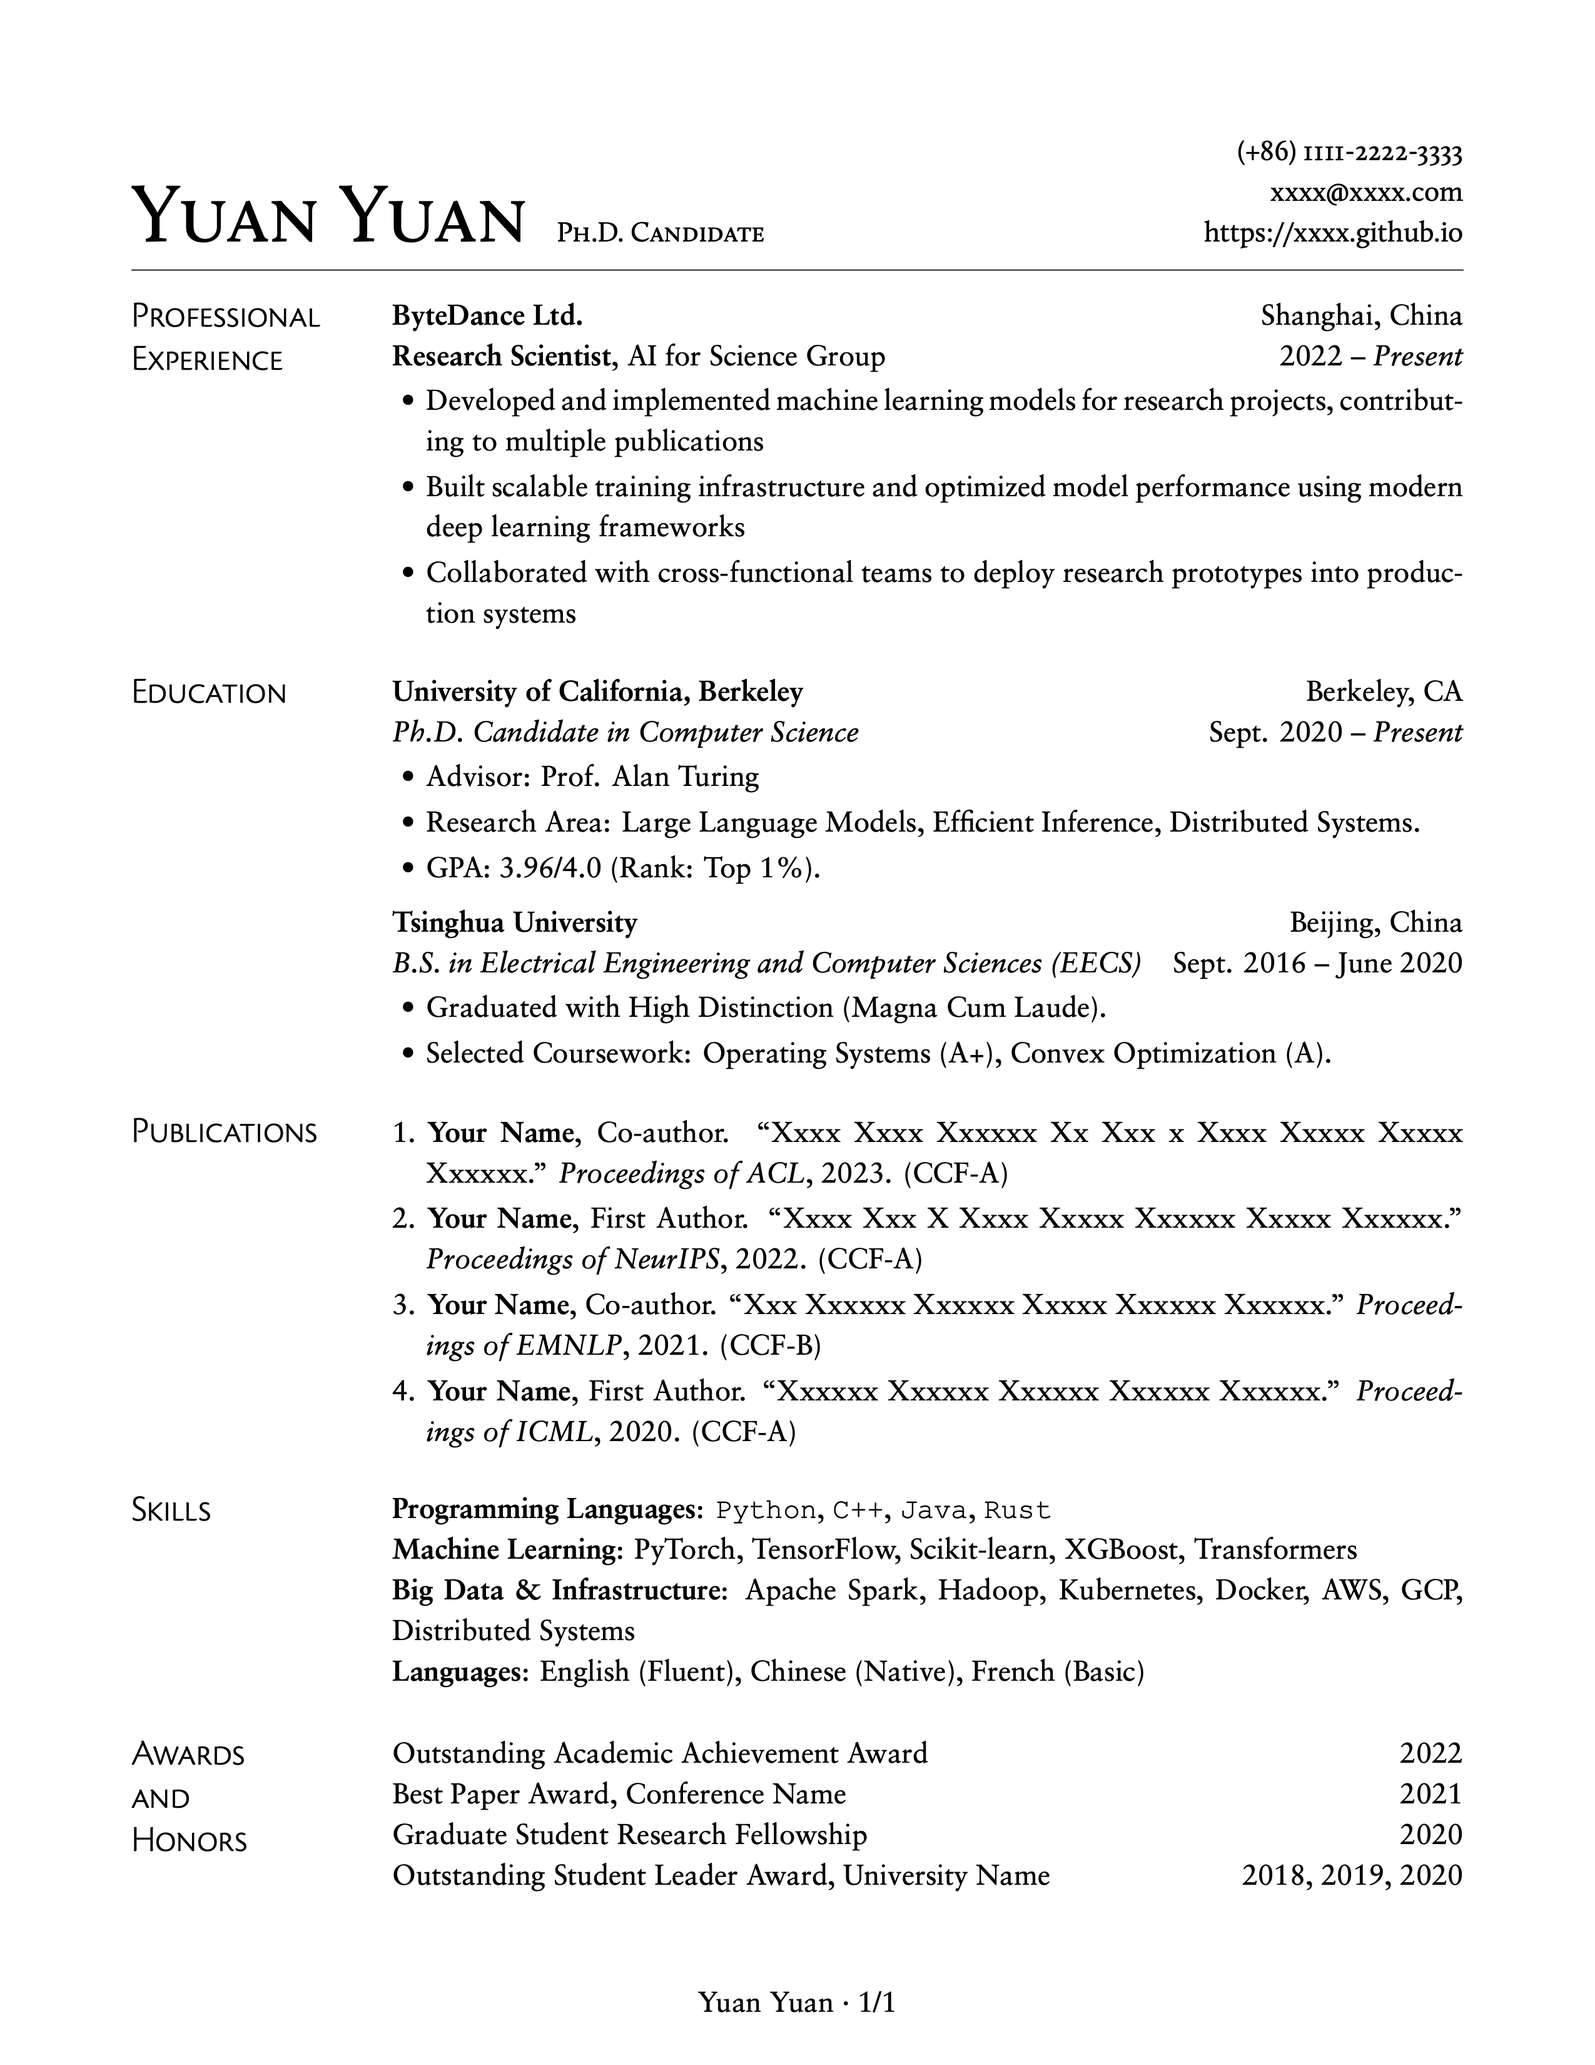
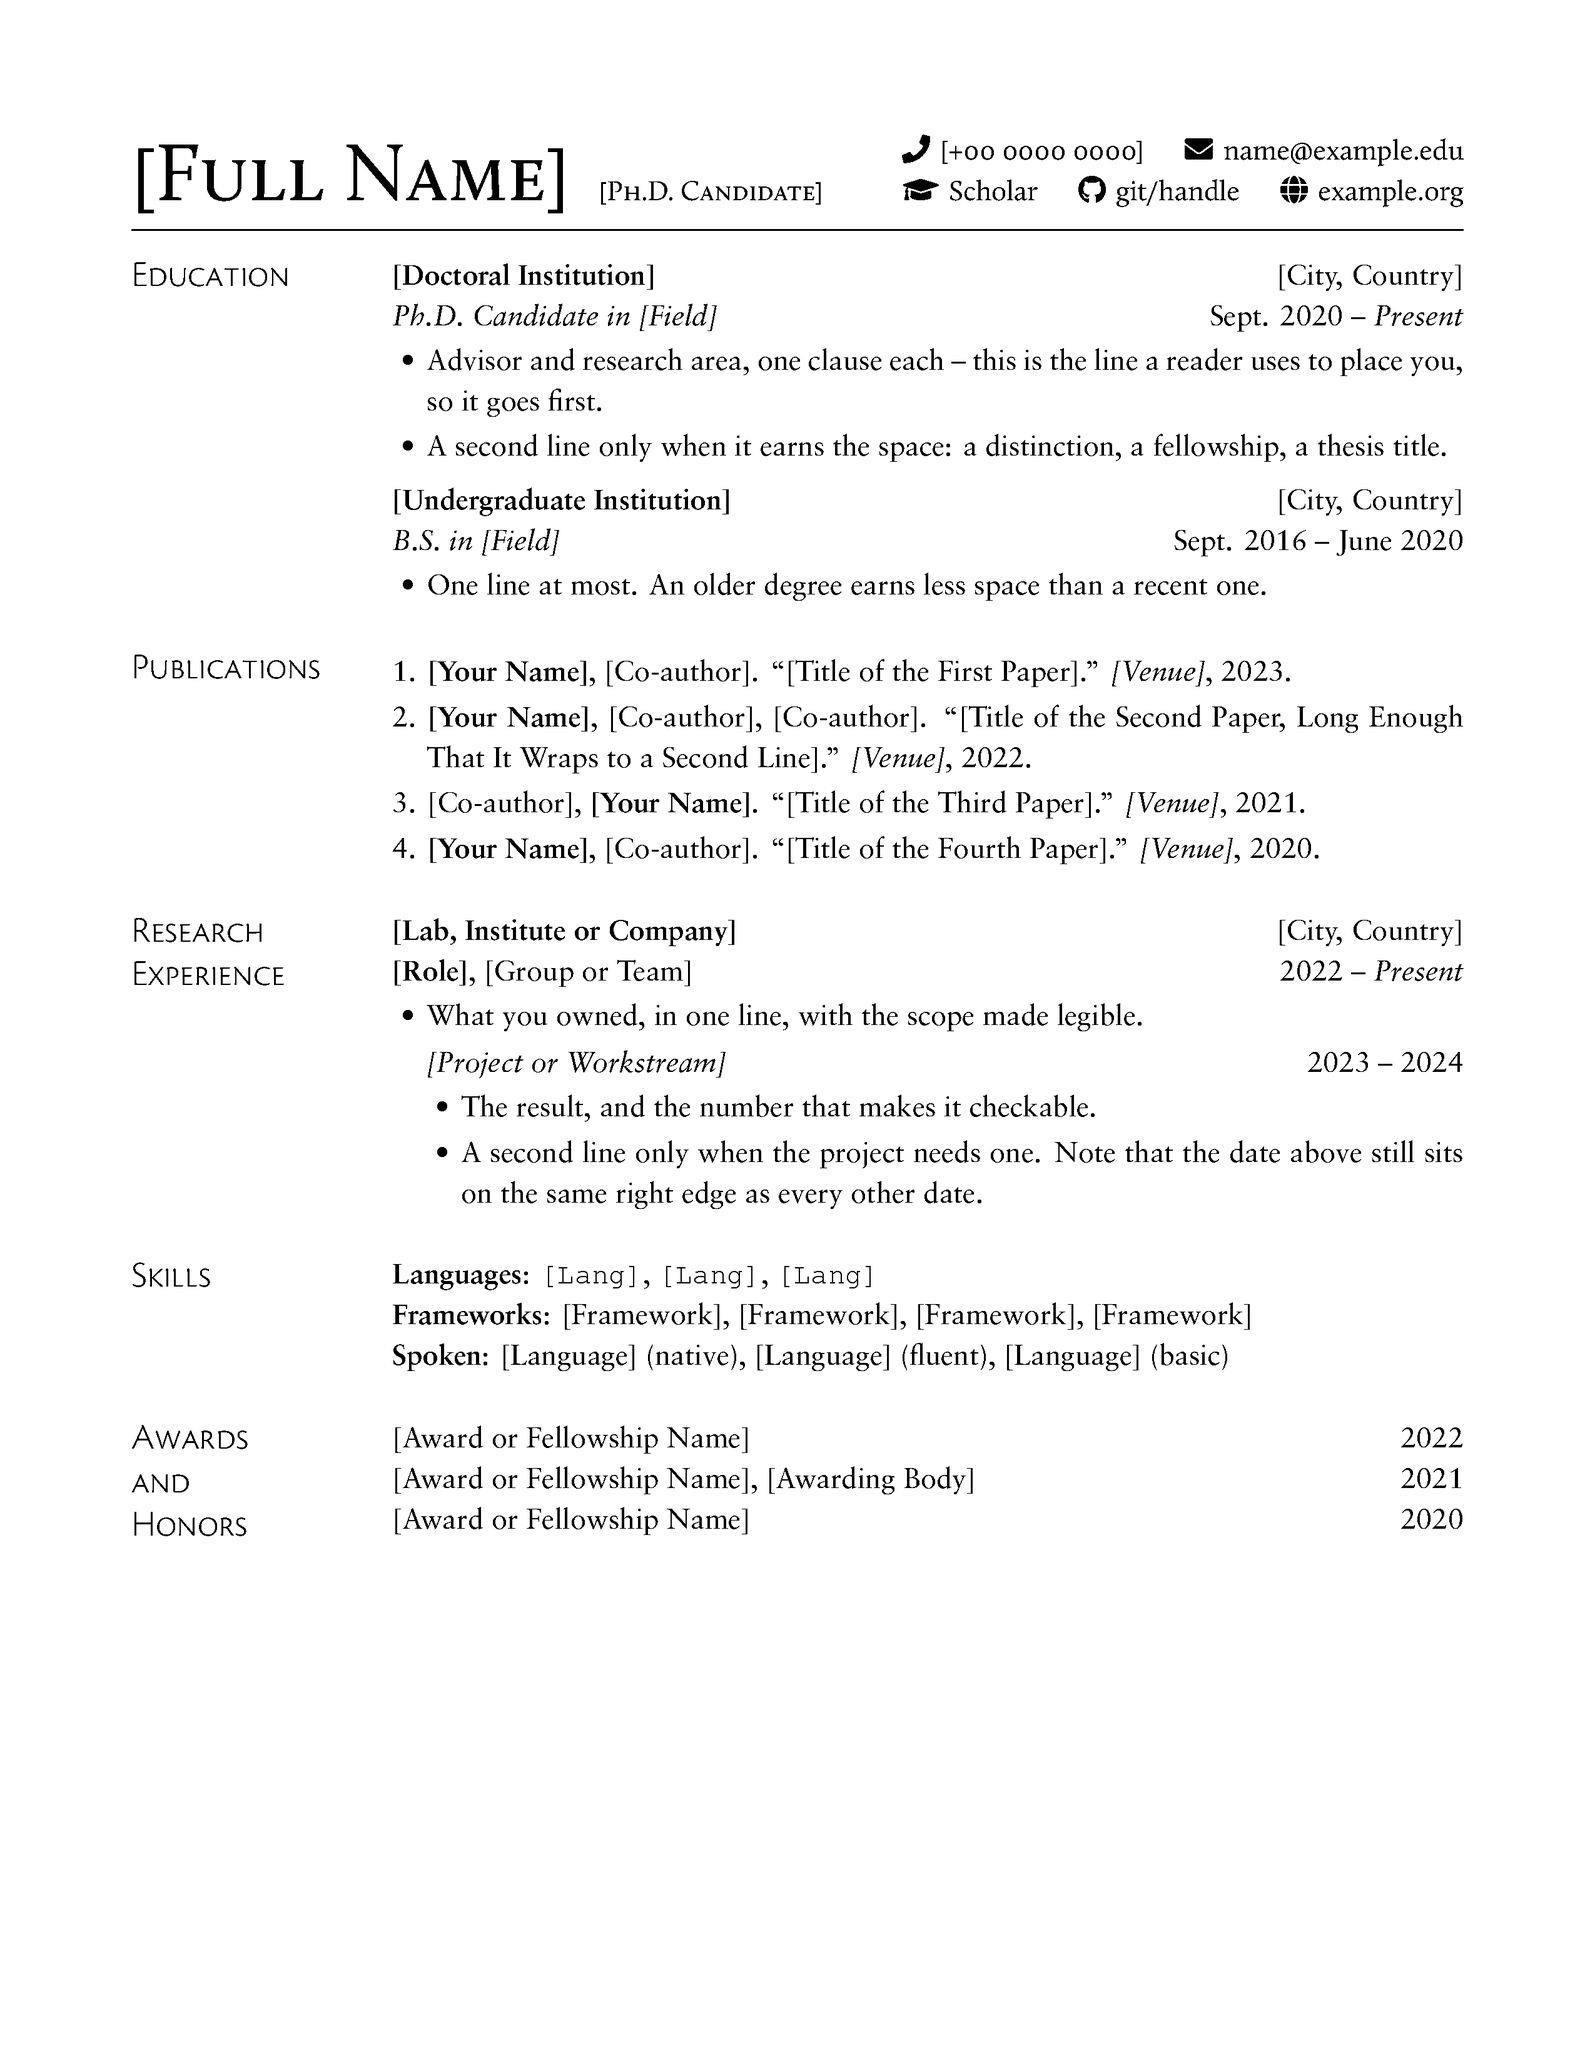
feat: reduce main.tex to a skeleton and add two example compositions
main.tex shipped as a filled-in resume for a named person at a named
employer with a GPA and a class rank -- entirely fabricated, and the
default starting point for anyone who cloned the repository. Every field
is now a bracketed placeholder, so the file asserts nothing about anyone
and `make check` fails until the placeholders are replaced. That failure
is the intended signal: it names the lines still to edit.

The skeleton also demonstrates the primitives it expects to be used --
cventry nesting a project under a role, \cvgap separating siblings, the
contact rows as an ordered stack -- rather than describing them in a
comment banner.

examples/academic.tex and examples/industry.tex exist to make the point
that there is no canonical section list: one has Publications, Research
Experience and Awards, the other Open Source, Speaking and Stack, and
they share only Education. Both are placeholder skeletons for the same
reason main.tex is.

assets/font-commercial.png is now a render of examples/academic.tex via
`make preview`, replacing a hand-made image of the fabricated CV.
assets/font-default.png goes with the open-source font set it showed.

diff --git a/main.tex b/main.tex
@@ -1,81 +1,77 @@
-% ====================================================================
-% IMPORTANT: This template REQUIRES XeLaTeX compiler!
-% ====================================================================
-% 
-% In Overleaf: Menu -> Settings -> Compiler -> XeLaTeX
-% In local TeX: Use 'xelatex main.tex' instead of 'pdflatex main.tex'
+% ===========================================================================
+% Your resume. Replace every placeholder below, then delete this banner.
 %
-% ====================================================================
-% Class Options
-% ====================================================================
-% - fontset: 'default' (open source) or 'commercial' (requires manual font files)
-%   Example: fontset=default or fontset=commercial
+%   Requires XeLaTeX.  Overleaf: Menu -> Settings -> Compiler -> XeLaTeX
+%   Build:  latexmk -xelatex -outdir=build main.tex
+%   Check:  make check          (fails while placeholders remain)
 %
-% - pagefooter: boolean (default: true)
-%   When enabled, shows a centered footer: "Name · current/total" (e.g., "Yuan Yuan · 2/3").
-%   Set pagefooter=false to hide header/footer entirely.
-\documentclass[fontset=default,pagefooter=false]{yuan2resume}
+%   The vocabulary is seven primitives -- read docs/GRAMMAR.md before writing.
+%   examples/academic.tex and examples/industry.tex are two full compositions;
+%   neither is "the" shape of a resume. Invent the sections you actually need.
+%
+%   Class options:
+%     fontset    = commercial (included config) | your own set -- docs/FONTS.md
+%     pagefooter = false | true  ("Name . 2/3" centred at the foot)
+% ===========================================================================
+\documentclass[fontset=commercial,pagefooter=false]{yuan2resume}
 
-\name{Yuan Yuan}
-\position{Ph.D. Candidate}
-\phone{(+86) 1111-2222-3333}
-\email{xxxx@xxxx.com}
-\homepage{https://xxxx.github.io}
+\cvname{Your Name}
+\cvposition{Your Job Title}
+
+% The contact block. Items print in declaration order, so to reorder them you
+% reorder these lines; to move an item to the other row, move its line into
+% the other \cvcontactrow. Every item must be inside an explicit row.
+% Icons are semantic slots (\cvIconPhone, \cvIconScholar, ...), so you never
+% name a glyph here -- and icons=false in the class options drops them all.
+\cvcontactrow{
+  \cvcontact[\cvIconPhone]{+1 (234) 567-8900}
+  \cvemail{your.email@example.com}
+}
+\cvcontactrow{
+  \cvlink[\cvIconScholar]{https://scholar.google.com/citations?user=XXXX}{Scholar}
+  \cvlink[\cvIconGitHub]{https://github.com/you}{github.com/you}
+  \cvlink[\cvIconSite]{https://example.com}{example.com}
+}
+% Other slots: \cvIconLinkedIn, \cvIconLocation, or pass any fontawesome5
+% command directly -- \cvlink[\faTwitter]{...}{...}
 
 \begin{document}
 \maketitle
 
 \begin{cvtwocolumn}
 
-\begin{cvsection}{Professional Experience}
-  \cvpair{\textbf{ByteDance Ltd. }}{Shanghai, China}
-  \cvpair{\textbf{Research Scientist}, AI for Science Group}{2022 -- \textit{Present}}
+\begin{cvsection}{Experience}
+  \cvpair{\textbf{Employer Name}}{City, Country}
+  \cvpair{\textbf{Your Job Title}, Team}{2022 -- \textit{Present}}
   \begin{cvitemize}
-    \item Developed and implemented machine learning models for research projects, contributing to multiple publications
-    \item Built scalable training infrastructure and optimized model performance using modern deep learning frameworks
-    \item Collaborated with cross-functional teams to deploy research prototypes into production systems
+    \item What you owned, and the number that shows it mattered.
+  \end{cvitemize}
+  % cventry nests a project under the role. It indents from the left only, so
+  % the date below still lands on the same right edge as "City, Country".
+  \begin{cventry}
+    \cvpair{\textit{Project Name}}{2023 -- 2024}
+    \begin{cvitemize}
+      \item What changed, measured.
+    \end{cvitemize}
+  \end{cventry}
+
+  \cvgap  % <- separates sibling entries. Never write \vspace here.
+
+  \cvpair{\textbf{Earlier Employer}}{City, Country}
+  \cvpair{\textbf{Earlier Title}}{2019 -- 2022}
+  \begin{cvitemize}
+    \item One line per thing worth an interview question.
   \end{cvitemize}
 \end{cvsection}
 
 \begin{cvsection}{Education}
-  \cvpair{\textbf{University of California, Berkeley}}{Berkeley, CA}
-  \cvpair{\textit{Ph.D. Candidate in Computer Science}}{Sept. 2020 -- \textit{Present}}
-  \begin{cvitemize}
-    \item Advisor: Prof. Alan Turing
-    \item Research Area: Large Language Models, Efficient Inference, Distributed Systems.
-    \item GPA: 3.96/4.0 (Rank: Top 1\%).
-  \end{cvitemize}
-  \vspace{\cventrysep}
-  \cvpair{\textbf{Tsinghua University}}{Beijing, China}
-  \cvpair{\textit{B.S. in Electrical Engineering and Computer Sciences (EECS)}}{Sept. 2016 -- June 2020}
-  \begin{cvitemize}
-    \item Graduated with High Distinction (Magna Cum Laude).
-    \item Selected Coursework: Operating Systems (A+), Convex Optimization (A).
-  \end{cvitemize}
-\end{cvsection}
-
-\begin{cvsection}{Publications}
-  \vspace{-0.5\cvitemsep}
-  \begin{cvnumlist}
-    \item \textbf{Your Name}, Co-author. ``Xxxx Xxxx Xxxxxx Xx Xxx x Xxxx Xxxxx Xxxxx Xxxxxx.'' \textit{Proceedings of ACL}, 2023. (CCF-A)
-    \item \textbf{Your Name}, First Author. ``Xxxx Xxx X Xxxx Xxxxx Xxxxxx Xxxxx Xxxxxx.'' \textit{Proceedings of NeurIPS}, 2022. (CCF-A)
-    \item \textbf{Your Name}, Co-author. ``Xxx Xxxxxx Xxxxxx Xxxxx Xxxxxx Xxxxxx.'' \textit{Proceedings of EMNLP}, 2021. (CCF-B)
-    \item \textbf{Your Name}, First Author. ``Xxxxxx Xxxxxx Xxxxxx Xxxxxx Xxxxxx.'' \textit{Proceedings of ICML}, 2020. (CCF-A)
-  \end{cvnumlist}
+  \cvpair{\textbf{University Name}}{City, Country}
+  \cvpair{\textit{Your Degree}}{2015 -- 2019}
 \end{cvsection}
 
 \begin{cvsection}{Skills}
-  \textbf{Programming Languages}: {\CodeFont{Python}}, {\CodeFont{C++}}, {\CodeFont{Java}}, {\CodeFont{Rust}} \\
-  \textbf{Machine Learning}: PyTorch, TensorFlow, Scikit-learn, XGBoost, Transformers \\
-  \textbf{Big Data \& Infrastructure}: Apache Spark, Hadoop, Kubernetes, Docker, AWS, GCP, Distributed Systems \\
-  \textbf{Languages}: English (Fluent), Chinese (Native), French (Basic)
-\end{cvsection}
-
-\begin{cvsection}{Awards\\and\\Honors}
-  \cvpair{Outstanding Academic Achievement Award}{2022}
-  \cvpair{Best Paper Award, Conference Name}{2021}
-  \cvpair{Graduate Student Research Fellowship}{2020}
-  \cvpair{Outstanding Student Leader Award, University Name}{2018, 2019, 2020}
+  \textbf{Languages}: {\CodeFont{Python}}, {\CodeFont{Go}} \\
+  \textbf{Tools}: name only what you would defend in an interview
 \end{cvsection}
 
 \end{cvtwocolumn}

diff --git a/examples/academic.tex b/examples/academic.tex
@@ -1,0 +1,94 @@
+% ---------------------------------------------------------------------------
+% Academic CV -- one composition of the grammar.
+%
+% Everything here is a SLOT, not a claim. Names, institutions, venues and
+% numbers are bracketed placeholders, and the bullets say what belongs in them,
+% so the file shows how the primitives compose without asserting anything about
+% a real person or organisation. Read it for shape; write content in main.tex.
+%
+% Compare examples/industry.tex: a different section list, the same seven
+% primitives, the same shared right-hand edge.
+%
+% Build from the REPOSITORY ROOT so the class and fonts/ resolve:
+%   latexmk -xelatex -outdir=build examples/academic.tex
+% ---------------------------------------------------------------------------
+\documentclass[fontset=commercial,pagefooter=false]{yuan2resume}
+
+\cvname{[Full Name]}
+\cvposition{[Ph.D. Candidate]}
+\cvcontactrow{
+  \cvcontact[\cvIconPhone]{[+00 0000 0000]}
+  \cvemail{name@example.edu}
+}
+\cvcontactrow{
+  \cvlink[\cvIconScholar]{https://example.edu/scholar}{Scholar}
+  \cvlink[\cvIconGitHub]{https://example.com/git}{git/handle}
+  \cvlink[\cvIconSite]{https://example.org}{example.org}
+}
+
+\begin{document}
+\maketitle
+
+\begin{cvtwocolumn}
+
+\begin{cvsection}{Education}
+  \cvpair{\textbf{[Doctoral Institution]}}{[City, Country]}
+  \cvpair{\textit{Ph.D. Candidate in [Field]}}{Sept. 2020 -- \textit{Present}}
+  \begin{cvitemize}
+    \item Advisor and research area, one clause each -- this is the line a reader
+      uses to place you, so it goes first.
+    \item A second line only when it earns the space: a distinction, a
+      fellowship, a thesis title.
+  \end{cvitemize}
+  \cvgap
+  \cvpair{\textbf{[Undergraduate Institution]}}{[City, Country]}
+  \cvpair{\textit{B.S. in [Field]}}{Sept. 2016 -- June 2020}
+  \begin{cvitemize}
+    \item One line at most. An older degree earns less space than a recent one.
+  \end{cvitemize}
+\end{cvsection}
+
+\begin{cvsection}{Publications}
+  \begin{cvnumlist}
+    \item \textbf{[Your Name]}, {[Co-author]}. ``[Title of the First Paper].''
+      \textit{[Venue]}, 2023.
+    \item \textbf{[Your Name]}, {[Co-author]}, {[Co-author]}. ``[Title of the
+      Second Paper, Long Enough That It Wraps to a Second Line].''
+      \textit{[Venue]}, 2022.
+    \item {[Co-author]}, \textbf{[Your Name]}. ``[Title of the Third Paper].''
+      \textit{[Venue]}, 2021.
+    \item \textbf{[Your Name]}, {[Co-author]}. ``[Title of the Fourth Paper].''
+      \textit{[Venue]}, 2020.
+  \end{cvnumlist}
+\end{cvsection}
+
+\begin{cvsection}{Research\\Experience}
+  \cvpair{\textbf{[Lab, Institute or Company]}}{[City, Country]}
+  \cvpair{\textbf{[Role]}, [Group or Team]}{2022 -- \textit{Present}}
+  \begin{cvitemize}
+    \item What you owned, in one line, with the scope made legible.
+  \end{cvitemize}
+  \begin{cventry}
+    \cvpair{\textit{[Project or Workstream]}}{2023 -- 2024}
+    \begin{cvitemize}
+      \item The result, and the number that makes it checkable.
+      \item A second line only when the project needs one. Note that the date
+        above still sits on the same right edge as every other date.
+    \end{cvitemize}
+  \end{cventry}
+\end{cvsection}
+
+\begin{cvsection}{Skills}
+  \textbf{Languages}: {\CodeFont{[Lang]}}, {\CodeFont{[Lang]}}, {\CodeFont{[Lang]}} \\
+  \textbf{Frameworks}: [Framework], [Framework], [Framework], [Framework] \\
+  \textbf{Spoken}: [Language] (native), [Language] (fluent), [Language] (basic)
+\end{cvsection}
+
+\begin{cvsection}{Awards\\and\\Honors}
+  \cvpair{[Award or Fellowship Name]}{2022}
+  \cvpair{[Award or Fellowship Name], [Awarding Body]}{2021}
+  \cvpair{[Award or Fellowship Name]}{2020}
+\end{cvsection}
+
+\end{cvtwocolumn}
+\end{document}

diff --git a/examples/industry.tex b/examples/industry.tex
@@ -1,0 +1,89 @@
+% ---------------------------------------------------------------------------
+% Industry resume -- a DIFFERENT composition of the same grammar.
+%
+% No Publications section; Open Source and Speaking instead; projects nested
+% under each role with cventry. Same seven primitives, same six invariants,
+% same right-hand edge as examples/academic.tex.
+%
+% Everything here is a SLOT, not a claim: employers, projects, venues and
+% numbers are bracketed placeholders, and the bullets say what belongs in them.
+% Read it for shape; write content in main.tex.
+%
+% Build from the REPOSITORY ROOT so the class and fonts/ resolve:
+%   latexmk -xelatex -outdir=build examples/industry.tex
+% ---------------------------------------------------------------------------
+\documentclass[fontset=commercial,pagefooter=false]{yuan2resume}
+
+\cvname{[Full Name]}
+\cvposition{[Job Title]}
+\cvcontactrow{
+  \cvcontact[\cvIconLocation]{[City, Country]}
+  \cvemail{name@example.com}
+}
+\cvcontactrow{
+  \cvlink[\cvIconGitHub]{https://example.com/git}{git/handle}
+  \cvlink[\cvIconLinkedIn]{https://example.com/in}{in/handle}
+}
+
+\begin{document}
+\maketitle
+
+\begin{cvtwocolumn}
+
+\begin{cvsection}{Experience}
+  \cvpair{\textbf{[Current Employer]}}{[City, Country]}
+  \cvpair{\textbf{[Role]}, [Team]}{2021 -- \textit{Present}}
+  \begin{cvitemize}
+    \item What you own, in one line, with the number that makes the scope legible.
+  \end{cvitemize}
+  \begin{cventry}
+    \cvpair{\textit{[Project or Workstream]}}{2023 -- 2024}
+    \begin{cvitemize}
+      \item The outcome, stated as a change: from what, to what.
+      \item A second line only when the project needs one.
+    \end{cvitemize}
+  \end{cventry}
+  \begin{cventry}
+    \cvpair{\textit{[Second Project]}}{2022}
+    \begin{cvitemize}
+      \item One line. Two sibling cventry blocks share one nested left edge.
+    \end{cvitemize}
+  \end{cventry}
+  \cvgap
+  \cvpair{\textbf{[Previous Employer]}}{[City, Country]}
+  \cvpair{\textbf{[Role]}, [Team]}{2018 -- 2021}
+  \begin{cvitemize}
+    \item What you built, and what it carried.
+    \item People, if you led any -- how many, and what became of them.
+  \end{cvitemize}
+\end{cvsection}
+
+\begin{cvsection}{Open\\Source}
+  \cvpair{\textbf{[project-name]} --- [one clause: what it is, in what language]}{[role]}
+  \begin{cvitemize}
+    \item Scale and duration: since when, how many contributors, release cadence.
+  \end{cvitemize}
+  \cvgap
+  \cvpair{\textbf{[project-name]} --- [one clause: what it is]}{[role]}
+  \begin{cvitemize}
+    \item What you landed, and what it changed.
+  \end{cvitemize}
+\end{cvsection}
+
+\begin{cvsection}{Speaking}
+  \cvpair{``[Title of the Talk]'', [Conference]}{2024}
+  \cvpair{``[Title of the Talk]'', [Conference]}{2022}
+\end{cvsection}
+
+\begin{cvsection}{Stack}
+  \textbf{Daily}: {\CodeFont{[Lang]}}, {\CodeFont{[Lang]}}, {\CodeFont{[Lang]}} \\
+  \textbf{Infrastructure}: [Tool], [Tool], [Tool], [Tool], [Tool] \\
+  \textbf{Practices}: [practice], [practice], [practice]
+\end{cvsection}
+
+\begin{cvsection}{Education}
+  \cvpair{\textbf{[Institution]} --- B.Eng. in [Field]}{2014 -- 2018}
+\end{cvsection}
+
+\end{cvtwocolumn}
+\end{document}
